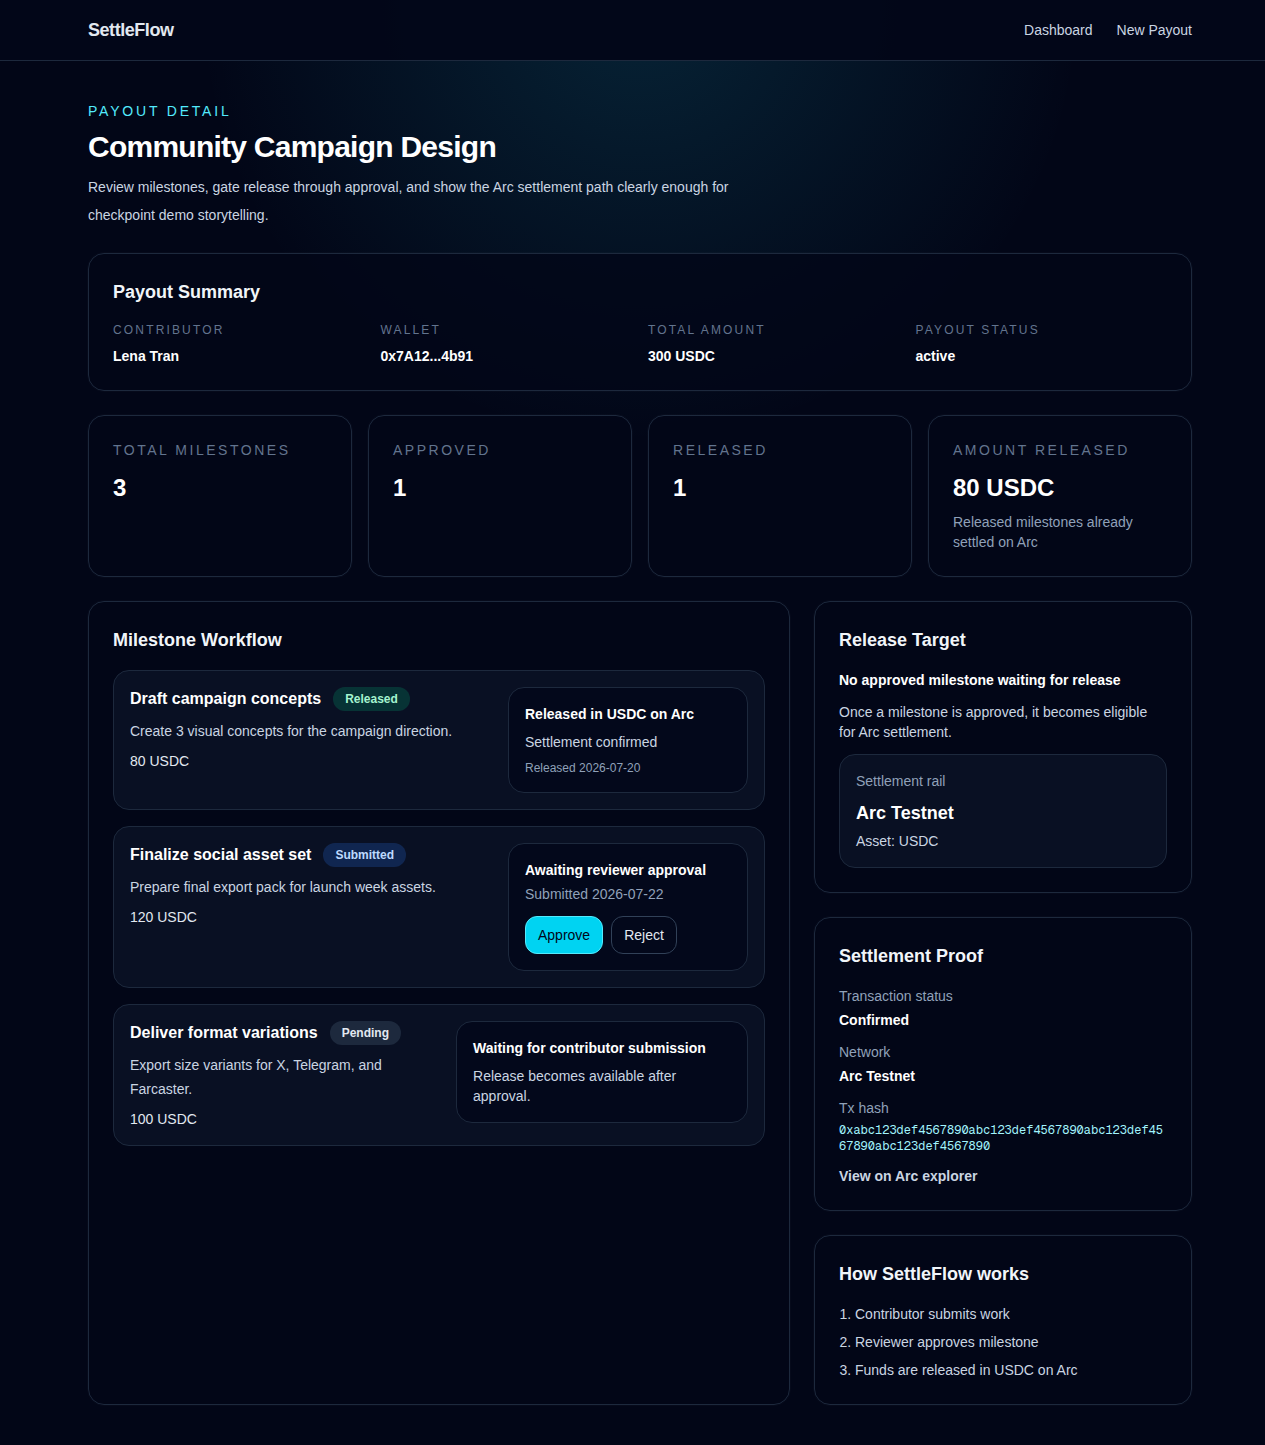
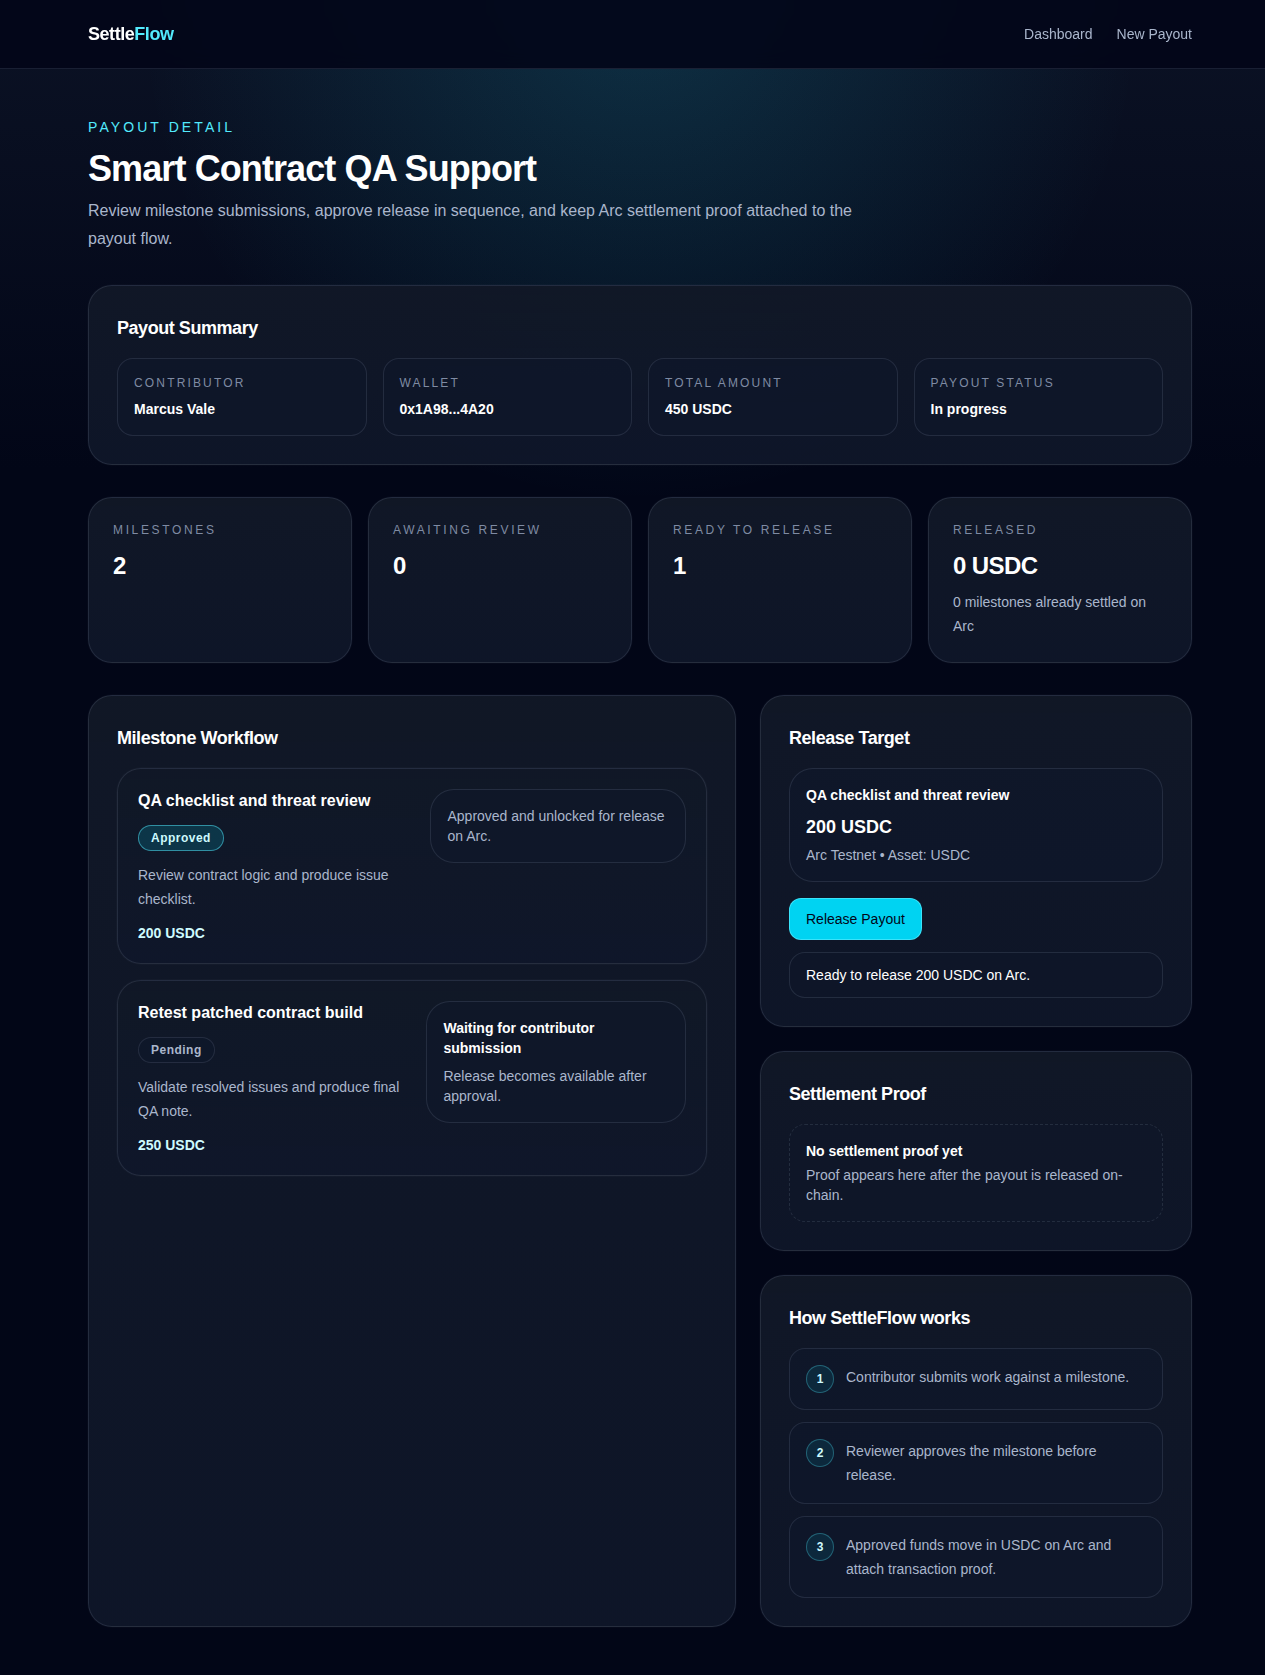
Polish checkpoint README and refresh payout detail proof screenshot
- update README wording to reflect the canonical payout detail route and interactive release/proof state
- refresh the payout-detail checkpoint screenshot from the canonical /payouts/payout-detail route

diff --git a/README.md b/README.md
@@ -37,14 +37,16 @@ The repository currently includes:
 - payout detail route with review, release, and settlement proof blocks
 - reusable milestone, proof, stat, and section components
 - mock contributors, payouts, milestones, and transaction proof data
-- Arc integration scaffold under `lib/arc/`
+- canonical payout detail route at `/payouts/payout-detail`
+- interactive release wedge with settlement proof sync and reload persistence
+- Arc integration scaffold under `lib/arc/` with mode-aware execution plumbing (`mock`, `demo`, `real`)
 
 Current implementation state:
 - frontend-first demo application
-- mock-data-driven workflow
+- mock/demo-safe workflow with interactive release state
 - no confirmed backend or database in this repository
 - no confirmed authentication flow
-- Arc payment path scaffolded but not yet live
+- Arc payment path scaffolded with mode-aware execution plumbing, but not yet live for production payout execution
 
 ## MVP Scope
 
@@ -76,7 +78,9 @@ Verified routes:
 Verified checks:
 - `npm run build` completed successfully
 - key routes are implemented in the repository
+- invalid legacy payout routes return `404`
 - checkpoint UI flow is present across landing, dashboard, payout creation, and payout detail views
+- payout detail release/proof state stays synchronized and persists across reloads in demo-safe mode
 
 ## Checkpoint 2 Screens
 
